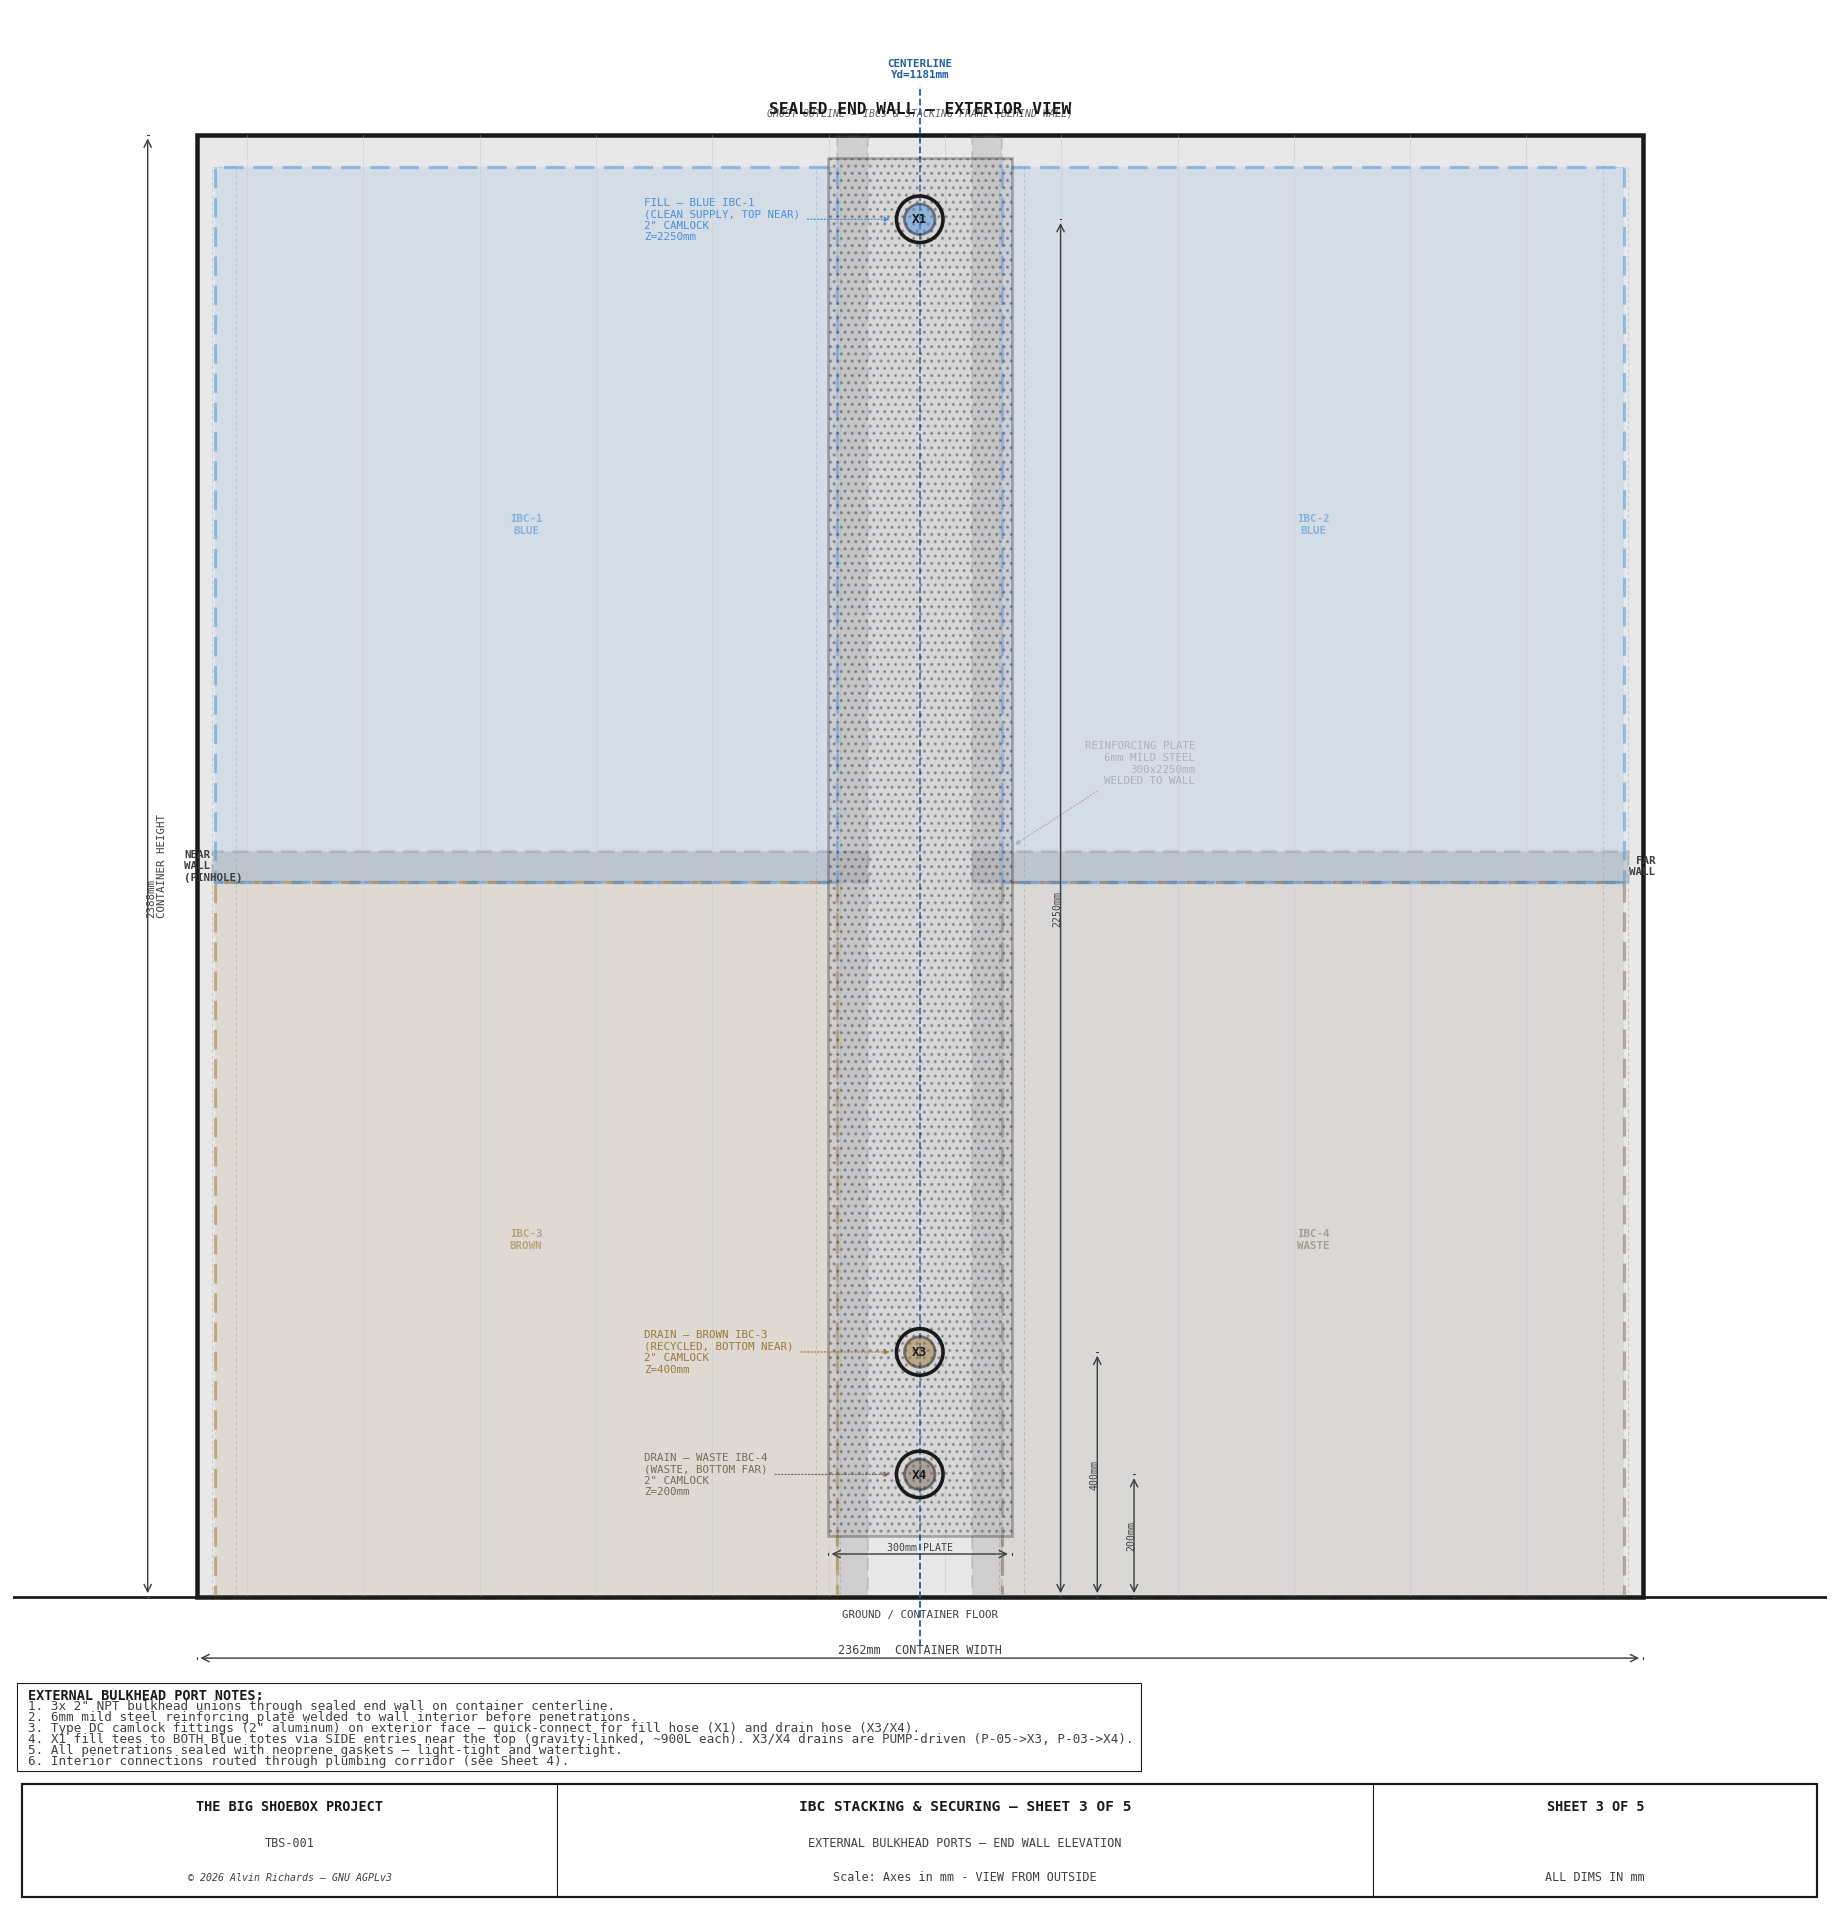
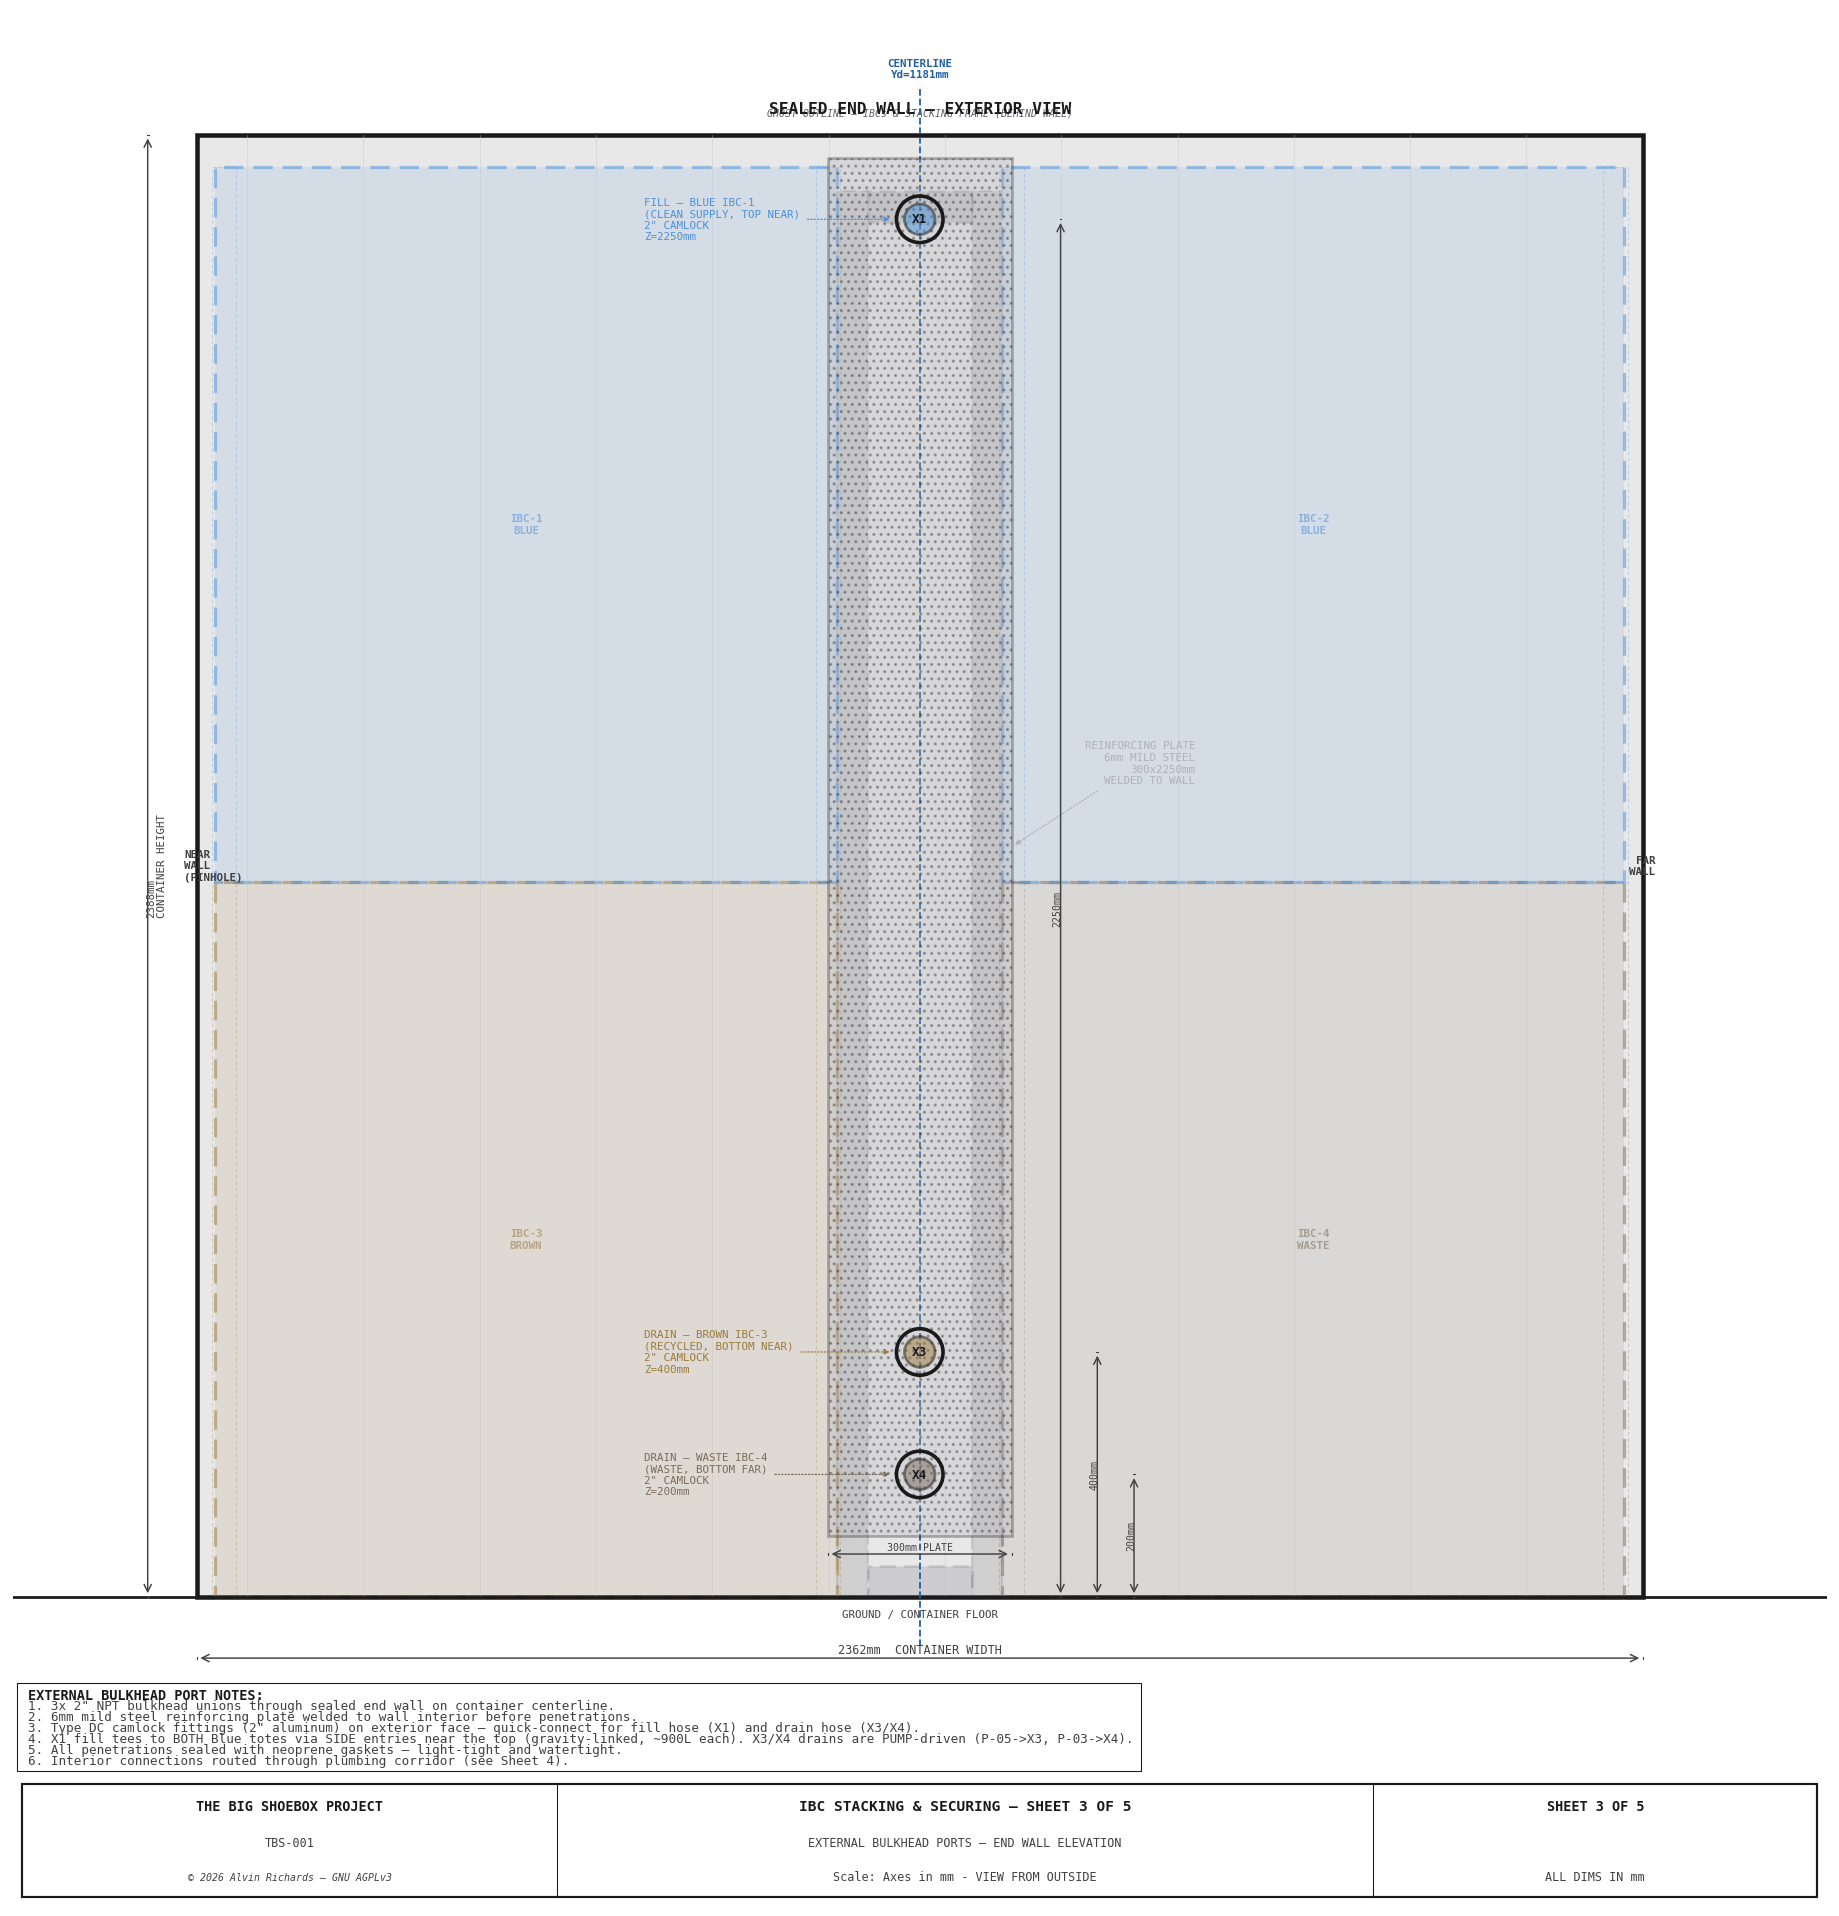
ibc frame drawings: add the deep-box rings across all remaining views
Completing the ring cascade — every frame view now shows the top + bottom rings that
tie the corridor uprights (they read as a closed box, not loose posts):
- ibc-frame Sheet 1 (front elev): near<->far rings across the corridor at Z0 + Z2246.
- ibc-stacking Sheet 5 (internal plumbing elev): dropped the legacy inter-tier platform
  beam (totes direct-stack, no deck), added the near<->far rings; uprights to Z2296.
- ibc-stacking Sheet 3 (sealed-end exterior): ghost frame now the deep-box back uprights
  + top/bottom rings (was legacy platform beams).

Full inventory now consistent with cp.frame(): ibc-frame 1/2/3 + ibc-stacking 1/3/4/5.
lint green.

diff --git a/src/generators/generate_ibc_stacking_diagram.py b/src/generators/generate_ibc_stacking_diagram.py
@@ -652,22 +652,22 @@ def sheet3():
                 ha="center", va="center", fontsize=6, color=color,
                 alpha=0.55, fontweight="bold", **FONT, zorder=2.7)
 
-    # Stacking frame — platform beams (ghost)
-    for pl, pr in [(near_ext_l - FRAME_RHS, near_ext_l + IBC_D + 5),
-                    (far_ext_l - 5,          far_ext_l + IBC_D + FRAME_RHS)]:
-        ax.add_patch(Rectangle(((pl), (platform_z)),
-                                (pr - pl), (FRAME_RHS),
-                                fc=C_FRAME, ec=C_FRAME, lw=1.5, ls=(0, (6, 3)),
-                                alpha=0.2, zorder=2.5))
-
-    # Corridor uprights (ghost) — internal Yd 1046–1096 and 1266–1316
-    # External: 1266–1316 and 1046–1096
-    for uyd in [C_WID - (BLUE_IBC_Y + IBC_D + FRAME_RHS),
-                C_WID - IBC_FAR_Y]:
+    # Stacking frame (ghost) — deep-box BACK uprights + top/bottom rings (no platform beam;
+    # the totes direct-stack). Yd mirrored for the exterior (sealed-end) view.
+    fr_top_z = IBC_H_STK_1000 - 40           # 2296 (matches cp.frame)
+    ghost_uyds = [C_WID - (BLUE_IBC_Y + IBC_D + FRAME_RHS),   # 1266 (mirrored)
+                  C_WID - IBC_FAR_Y]                          # 1046 (mirrored)
+    for uyd in ghost_uyds:
         ax.add_patch(Rectangle(((uyd), (0)),
-                                (FRAME_RHS), (IBC_H_STK_1000 + FRAME_RHS),
+                                (FRAME_RHS), (fr_top_z),
                                 fc=C_FRAME, ec=C_FRAME, lw=1.2, ls=(0, (6, 3)),
                                 alpha=0.18, zorder=2.5))
+    ring_gl, ring_gr = min(ghost_uyds), max(ghost_uyds)      # 1046, 1266
+    for rz in (0, fr_top_z - FRAME_RHS):
+        ax.add_patch(Rectangle(((ring_gl + FRAME_RHS), (rz)),
+                                (ring_gr - (ring_gl + FRAME_RHS)), (FRAME_RHS),
+                                fc=C_FRAME, ec=C_FRAME, lw=1.5, ls=(0, (6, 3)),
+                                alpha=0.2, zorder=2.5))
 
     # Ghost label
     ax.text((C_WID / 2), (IBC_H_STK_1000 + FRAME_RHS + 30),
@@ -1463,18 +1463,18 @@ def sheet5():
                 ha="center", va="center", fontsize=6.5, color=C_OUT,
                 fontweight="bold", **FONT, zorder=10)
 
-    # ── Platform beam (between tiers, one per column) ────────────────────────
-    for col_l, col_r in [(BLUE_IBC_Y - 5, near_col_r + FRAME_RHS),
-                          (far_col_l - FRAME_RHS, IBC_FAR_Y + IBC_D + 5)]:
-        ax.add_patch(Rectangle(((col_l), (platform_z)),
-                                (col_r - col_l), (FRAME_RHS),
-                                fc=C_FRAME, ec=C_OUT, lw=1.2, zorder=6, alpha=0.7))
-
-    # ── Corridor uprights ────────────────────────────────────────────────────
+    # ── Deep 4-leg box: corridor uprights (front pair, edge-on) tied by rings ──
+    #    The totes direct-stack (no deck), so there is NO inter-tier platform beam.
+    fr_top_z = IBC_H_STK_1000 - 40           # 2296 — restraint frame top (matches cp.frame)
     for uyd in [near_col_r, far_col_l - FRAME_RHS]:
         ax.add_patch(Rectangle(((uyd), (0)),
-                                (FRAME_RHS), (IBC_H_STK_1000 + FRAME_RHS),
+                                (FRAME_RHS), (fr_top_z),
                                 fc=C_FRAME, ec=C_OUT, lw=1.0, zorder=6, alpha=0.6))
+    # top + bottom rings tie the near & far uprights (front ring pair, seen edge-on)
+    for rz in (0, fr_top_z - FRAME_RHS):
+        ax.add_patch(Rectangle(((near_col_r + FRAME_RHS), (rz)),
+                                ((far_col_l - FRAME_RHS) - (near_col_r + FRAME_RHS)), (FRAME_RHS),
+                                fc=C_FRAME, ec=C_OUT, lw=1.0, zorder=6, alpha=0.55))
 
     # ── Corridor shading ────────────────────────────────────────────────────
     corr_l = near_col_r + FRAME_RHS

diff --git a/src/generators/generate_ibc_frame_drawing.py b/src/generators/generate_ibc_frame_drawing.py
@@ -401,6 +401,12 @@ def sheet1():
     for uyd in (POST_NEAR_YD, POST_FAR_YD):
         _rhs_rect(ax, uyd, 0, FRAME_RHS, TOP_Z, alpha=0.85, hatch="///")
 
+    # Top + bottom rings tie the near & far uprights across the corridor (front ring pair).
+    for rz in (0, TOP_Z - FRAME_RHS):
+        _rhs_rect(ax, POST_NEAR_YD + FRAME_RHS, rz,
+                  POST_FAR_YD - (POST_NEAR_YD + FRAME_RHS), FRAME_RHS,
+                  fc=C_FRAME, alpha=0.7, lw=1.2, zo=6)
+
     # Floor flange feet under the two uprights.
     for uyd in (POST_NEAR_YD, POST_FAR_YD):
         _foot_elev(ax, uyd + FRAME_RHS / 2)
